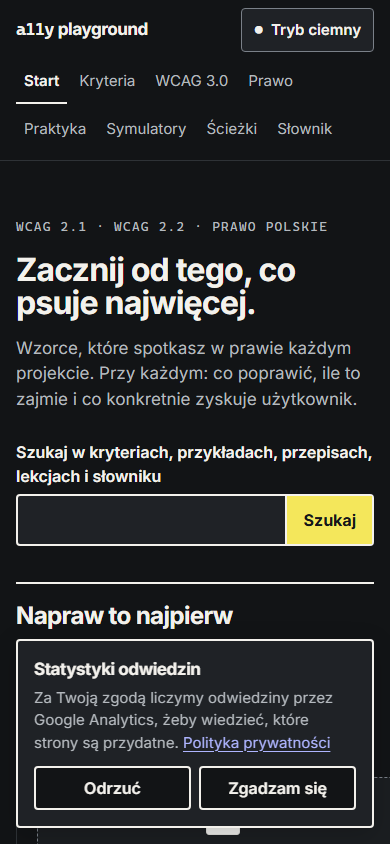
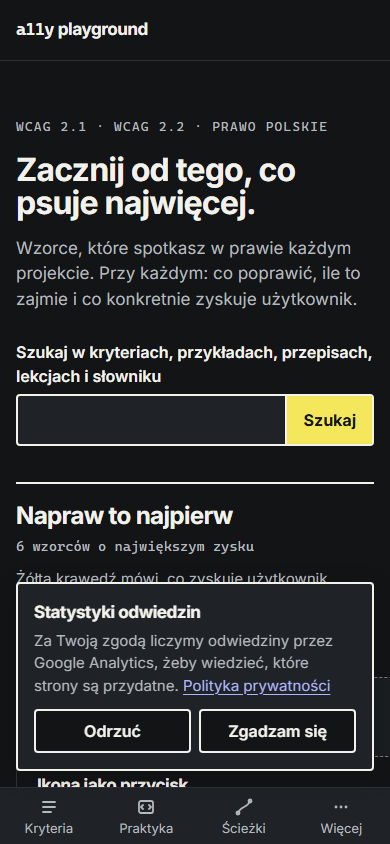
feat(layout): dock the main navigation to the bottom on phones

diff --git a/src/components/site-header.tsx b/src/components/site-header.tsx
@@ -1,16 +1,45 @@
-import { Link } from "@tanstack/react-router";
+import { Link, useRouterState } from "@tanstack/react-router";
+import { useRef } from "react";
 import { ThemeToggle } from "./theme-toggle";
 
+/**
+ * The main navigation, shared by both layouts. `phone` says where an item goes below 640px:
+ * one of the tabs in the bottom bar, the "Więcej" sheet, or nowhere because the wordmark leads there.
+ */
 const navItems = [
-  { to: "/", label: "Start" },
-  { to: "/kryteria", label: "Kryteria" },
-  { to: "/wcag-3", label: "WCAG 3.0" },
-  { to: "/prawo", label: "Prawo" },
-  { to: "/praktyka", label: "Praktyka" },
-  { to: "/symulatory", label: "Symulatory" },
-  { to: "/sciezki", label: "Ścieżki" },
-  { to: "/slownik", label: "Słownik" },
+  { to: "/", label: "Start", phone: "wordmark" },
+  { to: "/kryteria", label: "Kryteria", phone: "tab", icon: <path d="M4 5h12M4 10h12M4 15h8" /> },
+  { to: "/wcag-3", label: "WCAG 3.0", phone: "more" },
+  { to: "/prawo", label: "Prawo", phone: "more" },
+  {
+    to: "/praktyka",
+    label: "Praktyka",
+    phone: "tab",
+    icon: (
+      <>
+        <rect x="3" y="4" width="14" height="12" rx="2" />
+        <path d="M7 8l-2 2 2 2M13 8l2 2-2 2" />
+      </>
+    ),
+  },
+  { to: "/symulatory", label: "Symulatory", phone: "more" },
+  {
+    to: "/sciezki",
+    label: "Ścieżki",
+    phone: "tab",
+    icon: (
+      <>
+        <path d="M4 16c3-8 9-4 12-12" />
+        <circle cx="4" cy="16" r="1.5" />
+        <circle cx="16" cy="4" r="1.5" />
+      </>
+    ),
+  },
+  { to: "/slownik", label: "Słownik", phone: "more" },
 ] as const;
+
+const tabs = navItems.filter((item) => item.phone === "tab");
+const moreItems = navItems.filter((item) => item.phone === "more");
 
 /** Top bar with the skip link, the wordmark, main navigation and the theme toggle. */
 export function SiteHeader() {
@@ -23,11 +52,10 @@ export function SiteHeader() {
         Przejdź do treści
       </a>
       <div className="mx-auto flex max-w-245 flex-wrap items-center gap-x-4 gap-y-2 px-4 py-2 sm:px-7">
-        <Link to="/" className="inline-flex min-h-11 items-center text-[1.0625rem] font-bold tracking-tight">
+        <Link to="/" className="mr-auto inline-flex min-h-11 items-center text-[1.0625rem] font-bold tracking-tight">
           <span className="font-mono">a11y</span>&nbsp;playground
         </Link>
-        {/* On narrow screens the list wraps onto its own row instead of hiding behind a menu button. */}
-        <nav aria-label="Główna" className="order-last w-full sm:order-none sm:ml-auto sm:w-auto">
+        <nav aria-label="Główna" className="max-sm:hidden">
           <ul className="flex flex-wrap gap-1">
             {navItems.map(({ to, label }) => (
               <li key={to}>
@@ -42,10 +70,111 @@ export function SiteHeader() {
             ))}
           </ul>
         </nav>
-        <div className="ml-auto sm:ml-0">
+        <div className="max-sm:hidden">
           <ThemeToggle />
         </div>
+        <PhoneNav />
       </div>
     </header>
+  );
+}
+
+/**
+ * The navigation below 640px, variant C of the mobile menu mocks: three tabs and "Więcej" in a
+ * bar docked to the bottom edge, in reach of the thumb. "Więcej" opens a modal sheet with the
+ * remaining links and the theme toggle. On screens too short to spare the height (landscape,
+ * 400% zoom) the `docked` variant doesn't apply and the bar stays a row in the header.
+ */
+function PhoneNav() {
+  const sheet = useRef<HTMLDialogElement>(null);
+  const pathname = useRouterState({ select: (state) => state.location.pathname });
+  // "Więcej" looks current when the page is one of its links, so no page leaves the bar blank.
+  const inMore = moreItems.some(({ to }) => pathname === to || pathname.startsWith(`${to}/`));
+
+  const close = () => {
+    sheet.current?.close();
+  };
+
+  const tab =
+    "flex min-h-14 flex-col items-center justify-center gap-0.5 border-t-3 border-transparent px-1 text-[0.8125rem] text-ink-2 hover:bg-paper-2 hover:text-ink";
+
+  return (
+    <nav
+      aria-label="Główna"
+      className="order-last -mx-4 w-[calc(100%+2rem)] border-t border-rule bg-surface sm:hidden docked:fixed docked:inset-x-0 docked:bottom-0 docked:z-30 docked:mx-0 docked:w-auto"
+    >
+      <ul className="grid grid-cols-4">
+        {tabs.map(({ to, label, icon }) => (
+          <li key={to}>
+            <Link to={to} className={`${tab} aria-[current=page]:border-ink aria-[current=page]:font-bold aria-[current=page]:text-ink`}>
+              <svg viewBox="0 0 20 20" aria-hidden="true" className="size-5 fill-none stroke-current stroke-[1.8] [stroke-linecap:round] [stroke-linejoin:round]">
+                {icon}
+              </svg>
+              {label}
+            </Link>
+          </li>
+        ))}
+        <li>
+          <button
+            type="button"
+            aria-haspopup="dialog"
+            data-current={inMore || undefined}
+            onClick={() => {
+              sheet.current?.showModal();
+            }}
+            className={`w-full ${tab} data-current:border-ink data-current:font-bold data-current:text-ink`}
+          >
+            <svg viewBox="0 0 20 20" aria-hidden="true" className="size-5 fill-current">
+              <circle cx="5" cy="10" r="1.4" />
+              <circle cx="10" cy="10" r="1.4" />
+              <circle cx="15" cy="10" r="1.4" />
+            </svg>
+            Więcej
+          </button>
+        </li>
+      </ul>
+
+      {/* closedby="any" adds a tap on the backdrop to Escape and "Zamknij". The browser returns focus to "Więcej". */}
+      <dialog
+        ref={sheet}
+        closedby="any"
+        aria-labelledby="wiecej-tytul"
+        className="mx-0 mt-auto mb-0 max-h-dvh p-0 w-full max-w-none overflow-y-auto rounded-t-xl border-t-2 border-ink bg-surface text-ink backdrop:bg-black/45"
+      >
+        <div className="flex items-center justify-between border-b border-rule py-2 pr-2 pl-4">
+          <h2 id="wiecej-tytul" className="text-[1.0625rem] font-bold tracking-tight">
+            Więcej
+          </h2>
+          <button
+            type="button"
+            onClick={close}
+            className="inline-flex min-h-11 items-center gap-2 rounded border border-control bg-surface px-3 font-semibold hover:border-ink"
+          >
+            <span aria-hidden="true">✕</span>
+            Zamknij
+          </button>
+        </div>
+        <ul>
+          {moreItems.map(({ to, label }) => (
+            <li key={to} className="border-b border-rule">
+              <Link
+                to={to}
+                onClick={close}
+                className="group flex min-h-12 items-center border-l-4 border-transparent px-4 hover:bg-paper-2 aria-[current=page]:border-ink aria-[current=page]:bg-paper-2 aria-[current=page]:font-bold"
+              >
+                {label}
+                {/* aria-current already says it to screen readers. */}
+                <span aria-hidden="true" className="ml-auto hidden font-mono text-xs font-normal tracking-wider text-ink-2 uppercase group-aria-[current=page]:inline">
+                  tu jesteś
+                </span>
+              </Link>
+            </li>
+          ))}
+        </ul>
+        <div className="px-4 py-3">
+          <ThemeToggle />
+        </div>
+      </dialog>
+    </nav>
   );
 }

diff --git a/e2e/phone-nav.spec.ts b/e2e/phone-nav.spec.ts
@@ -1,0 +1,50 @@
+import AxeBuilder from "@axe-core/playwright";
+import { expect, type Page, test } from "@playwright/test";
+import { tags } from "./axe";
+
+test.use({ viewport: { width: 390, height: 844 } });
+
+const nav = (page: Page) => page.getByRole("navigation", { name: "Główna" });
+
+test("on a phone the main navigation is docked to the bottom edge", async ({ page }) => {
+  await page.goto("/kryteria");
+  const bar = await nav(page).boundingBox();
+  expect(bar && bar.y + bar.height).toBe(844);
+  await expect(nav(page).getByRole("link", { name: "Kryteria" })).toHaveAttribute("aria-current", "page");
+  // "Struktura strony" sits above the bar, not on it.
+  const tool = await page.getByRole("button", { name: "Struktura strony" }).boundingBox();
+  expect(tool && bar && tool.y + tool.height <= bar.y).toBe(true);
+});
+
+test("Więcej opens a sheet, Escape closes it and focus returns to the button", async ({ page }) => {
+  await page.goto("/kryteria");
+  const more = nav(page).getByRole("button", { name: "Więcej" });
+  await more.focus();
+  await page.keyboard.press("Enter");
+  const sheet = page.getByRole("dialog", { name: "Więcej" });
+  await expect(sheet).toBeVisible();
+  await expect(sheet.getByRole("button", { name: "Tryb ciemny" })).toBeVisible();
+  expect((await new AxeBuilder({ page }).withTags(tags).analyze()).violations).toEqual([]);
+
+  await page.keyboard.press("Escape");
+  await expect(sheet).toBeHidden();
+  await expect(more).toBeFocused();
+});
+
+test("a link in the sheet navigates and closes it", async ({ page }) => {
+  await page.goto("/kryteria");
+  await nav(page).getByRole("button", { name: "Więcej" }).click();
+  await page.getByRole("dialog", { name: "Więcej" }).getByRole("link", { name: "Prawo" }).click();
+  await expect(page).toHaveURL("/prawo");
+  await expect(page.getByRole("dialog")).toBeHidden();
+  await expect(page.getByRole("heading", { level: 1, name: "Prawo" })).toBeFocused();
+});
+
+test("on a short screen the bar stays in the header instead of covering the page", async ({ page }) => {
+  await page.setViewportSize({ width: 390, height: 400 });
+  await page.goto("/kryteria");
+  const box = await nav(page).boundingBox();
+  expect(box && box.y).toBeLessThan(120);
+  await page.mouse.wheel(0, 2000);
+  await expect(nav(page)).not.toBeInViewport();
+});

diff --git a/src/components/structure-tool.tsx b/src/components/structure-tool.tsx
@@ -122,7 +122,7 @@ export function StructureTool() {
       <button
         type="button"
         popoverTarget="struktura-panel"
-        className="fixed right-4 bottom-4 z-40 inline-flex in-data-[consent=open]:max-sm:hidden min-h-11 items-center gap-2 rounded border-2 border-ink bg-surface px-3.5 font-semibold shadow-[0_4px_16px_rgb(0_0_0/0.18)] hover:bg-paper-2"
+        className="fixed right-4 bottom-[calc(var(--dock-height)+1rem)] z-40 inline-flex in-data-[consent=open]:max-sm:hidden min-h-11 items-center gap-2 rounded border-2 border-ink bg-surface px-3.5 font-semibold shadow-[0_4px_16px_rgb(0_0_0/0.18)] hover:bg-paper-2"
       >
         <span aria-hidden="true" className="font-mono">
           ◫
@@ -137,8 +137,8 @@ export function StructureTool() {
         popover="auto"
         aria-labelledby="struktura-title"
         // The UA puts a popover in the middle of the viewport; this one sits above its button.
-        style={{ inset: "auto 1rem 4.5rem auto", margin: 0 }}
-        className="max-h-[calc(100dvh-6rem)] w-[min(24rem,calc(100vw-2rem))] overflow-y-auto border-2 border-ink bg-surface p-4 text-ink shadow-[0_6px_24px_rgb(0_0_0/0.18)]"
+        style={{ inset: "auto 1rem calc(var(--dock-height) + 4.5rem) auto", margin: 0 }}
+        className="max-h-[calc(100dvh-6rem-var(--dock-height))] w-[min(24rem,calc(100vw-2rem))] overflow-y-auto border-2 border-ink bg-surface p-4 text-ink shadow-[0_6px_24px_rgb(0_0_0/0.18)]"
       >
         <h2 id="struktura-title" className="text-lg font-bold tracking-tight">
           Struktura strony

diff --git a/src/styles.css b/src/styles.css
@@ -48,19 +48,34 @@
   --font-mono: ui-monospace, "Cascadia Mono", Consolas, "SF Mono", monospace;
 }
 
+/*
+ * Phones tall enough to spare the height: the main navigation docks to the bottom edge
+ * (src/components/site-header.tsx). --dock-height is what it takes there, 0 everywhere else,
+ * and everything else fixed to the bottom sits above it.
+ */
+@custom-variant docked (@media (width < 40rem) and (height >= 30rem));
+
+:root {
+  --dock-height: 0px;
+
+  @variant docked {
+    --dock-height: calc(3.5rem + 1px);
+  }
+}
+
 @layer base {
   /* 2.4.11: the "Struktura strony" button is fixed to the bottom corner, so focus scrolled into view stops above it. */
   html {
-    scroll-padding-bottom: 4.5rem;
+    scroll-padding-bottom: calc(4.5rem + var(--dock-height));
   }
 
   /* While the consent banner shows (src/components/consent.tsx), focus also stops above it. */
   html[data-consent="open"] {
-    scroll-padding-bottom: max(4.5rem, calc(var(--consent-height, 0px) + 2rem));
+    scroll-padding-bottom: calc(max(4.5rem, var(--consent-height, 0px) + 2rem) + var(--dock-height));
   }
 
   body {
-    @apply bg-paper font-sans text-ink antialiased;
+    @apply bg-paper pb-(--dock-height) font-sans text-ink antialiased;
   }
 
   /* 2.4.13 Focus Appearance (AAA): 3px solid outline, at least 3:1 against both states. */

diff --git a/src/components/consent.tsx b/src/components/consent.tsx
@@ -10,7 +10,7 @@ function useConsent() {
 
 /**
  * The consent banner, variant B of the cookie consent mocks: a card in the bottom left corner,
- * opposite "Struktura strony". Not a modal, so it never traps focus. While it shows, the root
+ * opposite "Struktura strony", and above the docked navigation on phones. Not a modal, so it never traps focus. While it shows, the root
  * gets data-consent="open" and --consent-height, which keep focused elements clear of it (2.4.11)
  * and, on narrow screens, hide "Struktura strony" underneath. Also switches GA on and off as the
  * choice changes. Render once, in the root layout, after <main>.
@@ -58,7 +58,7 @@ export function ConsentBanner() {
       ref={region}
       aria-labelledby="zgoda-tytul"
       tabIndex={-1}
-      className="fixed right-4 bottom-4 left-4 z-40 rounded border-2 border-ink bg-surface p-4 text-ink shadow-[0_6px_24px_rgb(0_0_0/0.18)] sm:right-auto sm:w-[22rem]"
+      className="fixed right-4 bottom-[calc(var(--dock-height)+1rem)] left-4 z-40 rounded border-2 border-ink bg-surface p-4 text-ink shadow-[0_6px_24px_rgb(0_0_0/0.18)] sm:right-auto sm:w-[22rem]"
     >
       <h2 id="zgoda-tytul" className="text-[1.0625rem] font-bold tracking-tight">
         Statystyki odwiedzin

diff --git a/README.md b/README.md
@@ -24,8 +24,8 @@ The interface is in Polish. This README is in English.
 ### What works today
 
 - **Home page** following screen 0 of design variant A: it opens with the six cheapest fixes as cards, then the remaining examples as a list.
-- Main navigation that wraps onto its own row on narrow screens instead of hiding behind a menu button.
-- Light and dark mode. It follows the operating system by default, and the header toggle stores an explicit choice.
+- **Main navigation on phones** docks to the bottom edge, in reach of the thumb: Kryteria, Praktyka and Ścieżki as tabs, and "Więcej" for the rest (variant C of the [mobile menu mocks](docs/design/2026-10-17-mobile-menu-mocks/mobile-menu-mocks.html)). "Więcej" opens a sheet with WCAG 3.0, Prawo, Symulatory, Słownik and the theme toggle; it is a native modal `dialog`, so Escape, "Zamknij" or a tap outside closes it and focus returns to "Więcej". The consent card and "Struktura strony" sit above the bar. On screens shorter than 480px (landscape, 400% zoom) the bar stays a row in the header instead of covering the page.
+- Light and dark mode. It follows the operating system by default, and the toggle in the header (in "Więcej" on phones) stores an explicit choice.
 - Skip link, a stable landmark structure, and focus moved to the new `h1` with the page title announced after every client-side route change.
 - **Struktura strony**, a button in the bottom right corner of every page, after the W3C [landmarks example](https://www.w3.org/WAI/ARIA/apg/patterns/landmarks/examples/general-principles.html). Its panel has two switches, "Punkty orientacyjne" and "Nagłówki", which outline the landmarks and headings of the page you are on, each with a label naming its role or level. The panel lists the same as text, with what is wrong (no `main`, two navigations nobody can tell apart, a skipped heading level), and every row moves focus to its element, the way a screen reader jumps with D or H. The switches last for the browser tab.
 - **Criteria list** (`/kryteria`) with filters for WCAG version, level, principle and role. The filters are native radio buttons and checkboxes, their state lives in the URL, and the result count is announced to screen readers.
@@ -48,14 +48,14 @@ The interface is in Polish. This README is in English.
 - **Law on criterion pages:** the "Prawo" section says, for each situation, whether a provision requires the criterion, which one, and since when, or why nothing does (AAA, new in 2.2, excluded for apps).
 - **Paths** (`/sciezki`): five ordered sets of lessons, for the developer, the designer, the content author, the tester, and the legal minimum for a public body. 30 lessons, each with a "Zapamiętaj" box, links to the criteria, examples and provisions it covers, and a quiz at the end. Paths are ungated: the quiz never blocks the next lesson. Criterion pages link to the lessons that teach them.
 - **Quizzes** show one question at a time. "Sprawdź" explains every option, right or wrong, and announces the verdict to screen readers without moving focus; "Następne pytanie" moves focus to the next question. The score shows at the end.
-- **Visit statistics only with consent.** Google Analytics 4 is not even downloaded until the reader picks "Zgadzam się" on a card in the bottom left corner (variant B of the [cookie consent mocks](docs/design/2026-10-14-cookie-consent-mocks/cookie-consent-mocks.html)). "Odrzuć" looks the same as "Zgadzam się", the card is not a modal and traps no focus, and while it shows, focus scrolled into view stops above it (2.4.11). The choice lives in `localStorage`; "Ustawienia cookies" in the footer of every page shows the card again, and refusing deletes the GA cookies.
+- **Visit statistics only with consent.** Google Analytics 4 is not even downloaded until the reader picks "Zgadzam się" on a card in the bottom left corner, above the navigation bar on phones (variant B of the [cookie consent mocks](docs/design/2026-10-14-cookie-consent-mocks/cookie-consent-mocks.html)). "Odrzuć" looks the same as "Zgadzam się", the card is not a modal and traps no focus, and while it shows, focus scrolled into view stops above it (2.4.11). The choice lives in `localStorage`; "Ustawienia cookies" in the footer of every page shows the card again, and refusing deletes the GA cookies.
 - **Privacy policy** (`/prywatnosc`, linked from the footer and the card), edited in Notion like the rest of the content.
 - **Contact** (`/kontakt`, linked from the footer), edited in Notion. The address is shown large above the text, with "Kopiuj adres" for readers whose browser has no mail program set up; "Skopiowano adres" is announced to screen readers and stays on screen (variant B of the [contact mocks](docs/design/2026-10-17-contact-mocks/contact-mocks.html)).
 - **Progress** (lessons marked done, the last quiz score) is stored in `localStorage` under one key, in the shape planned for the Convex tables, so accounts can import it later. `/sciezki` says so and offers "Wyczyść postęp". With storage blocked, progress lasts until the tab closes.
 
-| Light | Dark | Mobile |
-| --- | --- | --- |
-| ![Home, light mode](docs/screenshots/home-light.png) | ![Home, dark mode](docs/screenshots/home-dark.png) | ![Home on a 390px wide screen](docs/screenshots/home-mobile.png) |
+| Light | Dark | Mobile | Mobile, "Więcej" open |
+| --- | --- | --- | --- |
+| ![Home, light mode](docs/screenshots/home-light.png) | ![Home, dark mode](docs/screenshots/home-dark.png) | ![Home on a 390px wide screen with the Kryteria, Praktyka, Ścieżki and Więcej bar at the bottom](docs/screenshots/home-mobile.png) | ![The Więcej sheet over the Prawo page, with Prawo marked tu jesteś and the theme toggle below the links](docs/screenshots/phone-nav-more.png) |
 
 | Criteria list | Criterion page |
 | --- | --- |
@@ -99,7 +99,7 @@ The interface is in Polish. This README is in English.
 
 | Consent card | Consent card, mobile | Privacy policy | Contact |
 | --- | --- | --- | --- |
-| ![The statistics consent card in the bottom left corner of the home page, with Odrzuć and Zgadzam się](docs/screenshots/consent-banner.png) | ![The consent card across the full width of a 390px screen in dark mode](docs/screenshots/consent-banner-mobile.png) | ![The privacy policy page with the footer links Kontakt, Polityka prywatności and Ustawienia cookies](docs/screenshots/privacy.png) | ![The contact page with the address in large type, Kopiuj adres and the message Skopiowano adres](docs/screenshots/contact.png) |
+| ![The statistics consent card in the bottom left corner of the home page, with Odrzuć and Zgadzam się](docs/screenshots/consent-banner.png) | ![The consent card across the full width of a 390px screen in dark mode, above the navigation bar](docs/screenshots/consent-banner-mobile.png) | ![The privacy policy page with the footer links Kontakt, Polityka prywatności and Ustawienia cookies](docs/screenshots/privacy.png) | ![The contact page with the address in large type, Kopiuj adres and the message Skopiowano adres](docs/screenshots/contact.png) |
 
 | Glossary preview | Glossary | Search |
 | --- | --- | --- |
